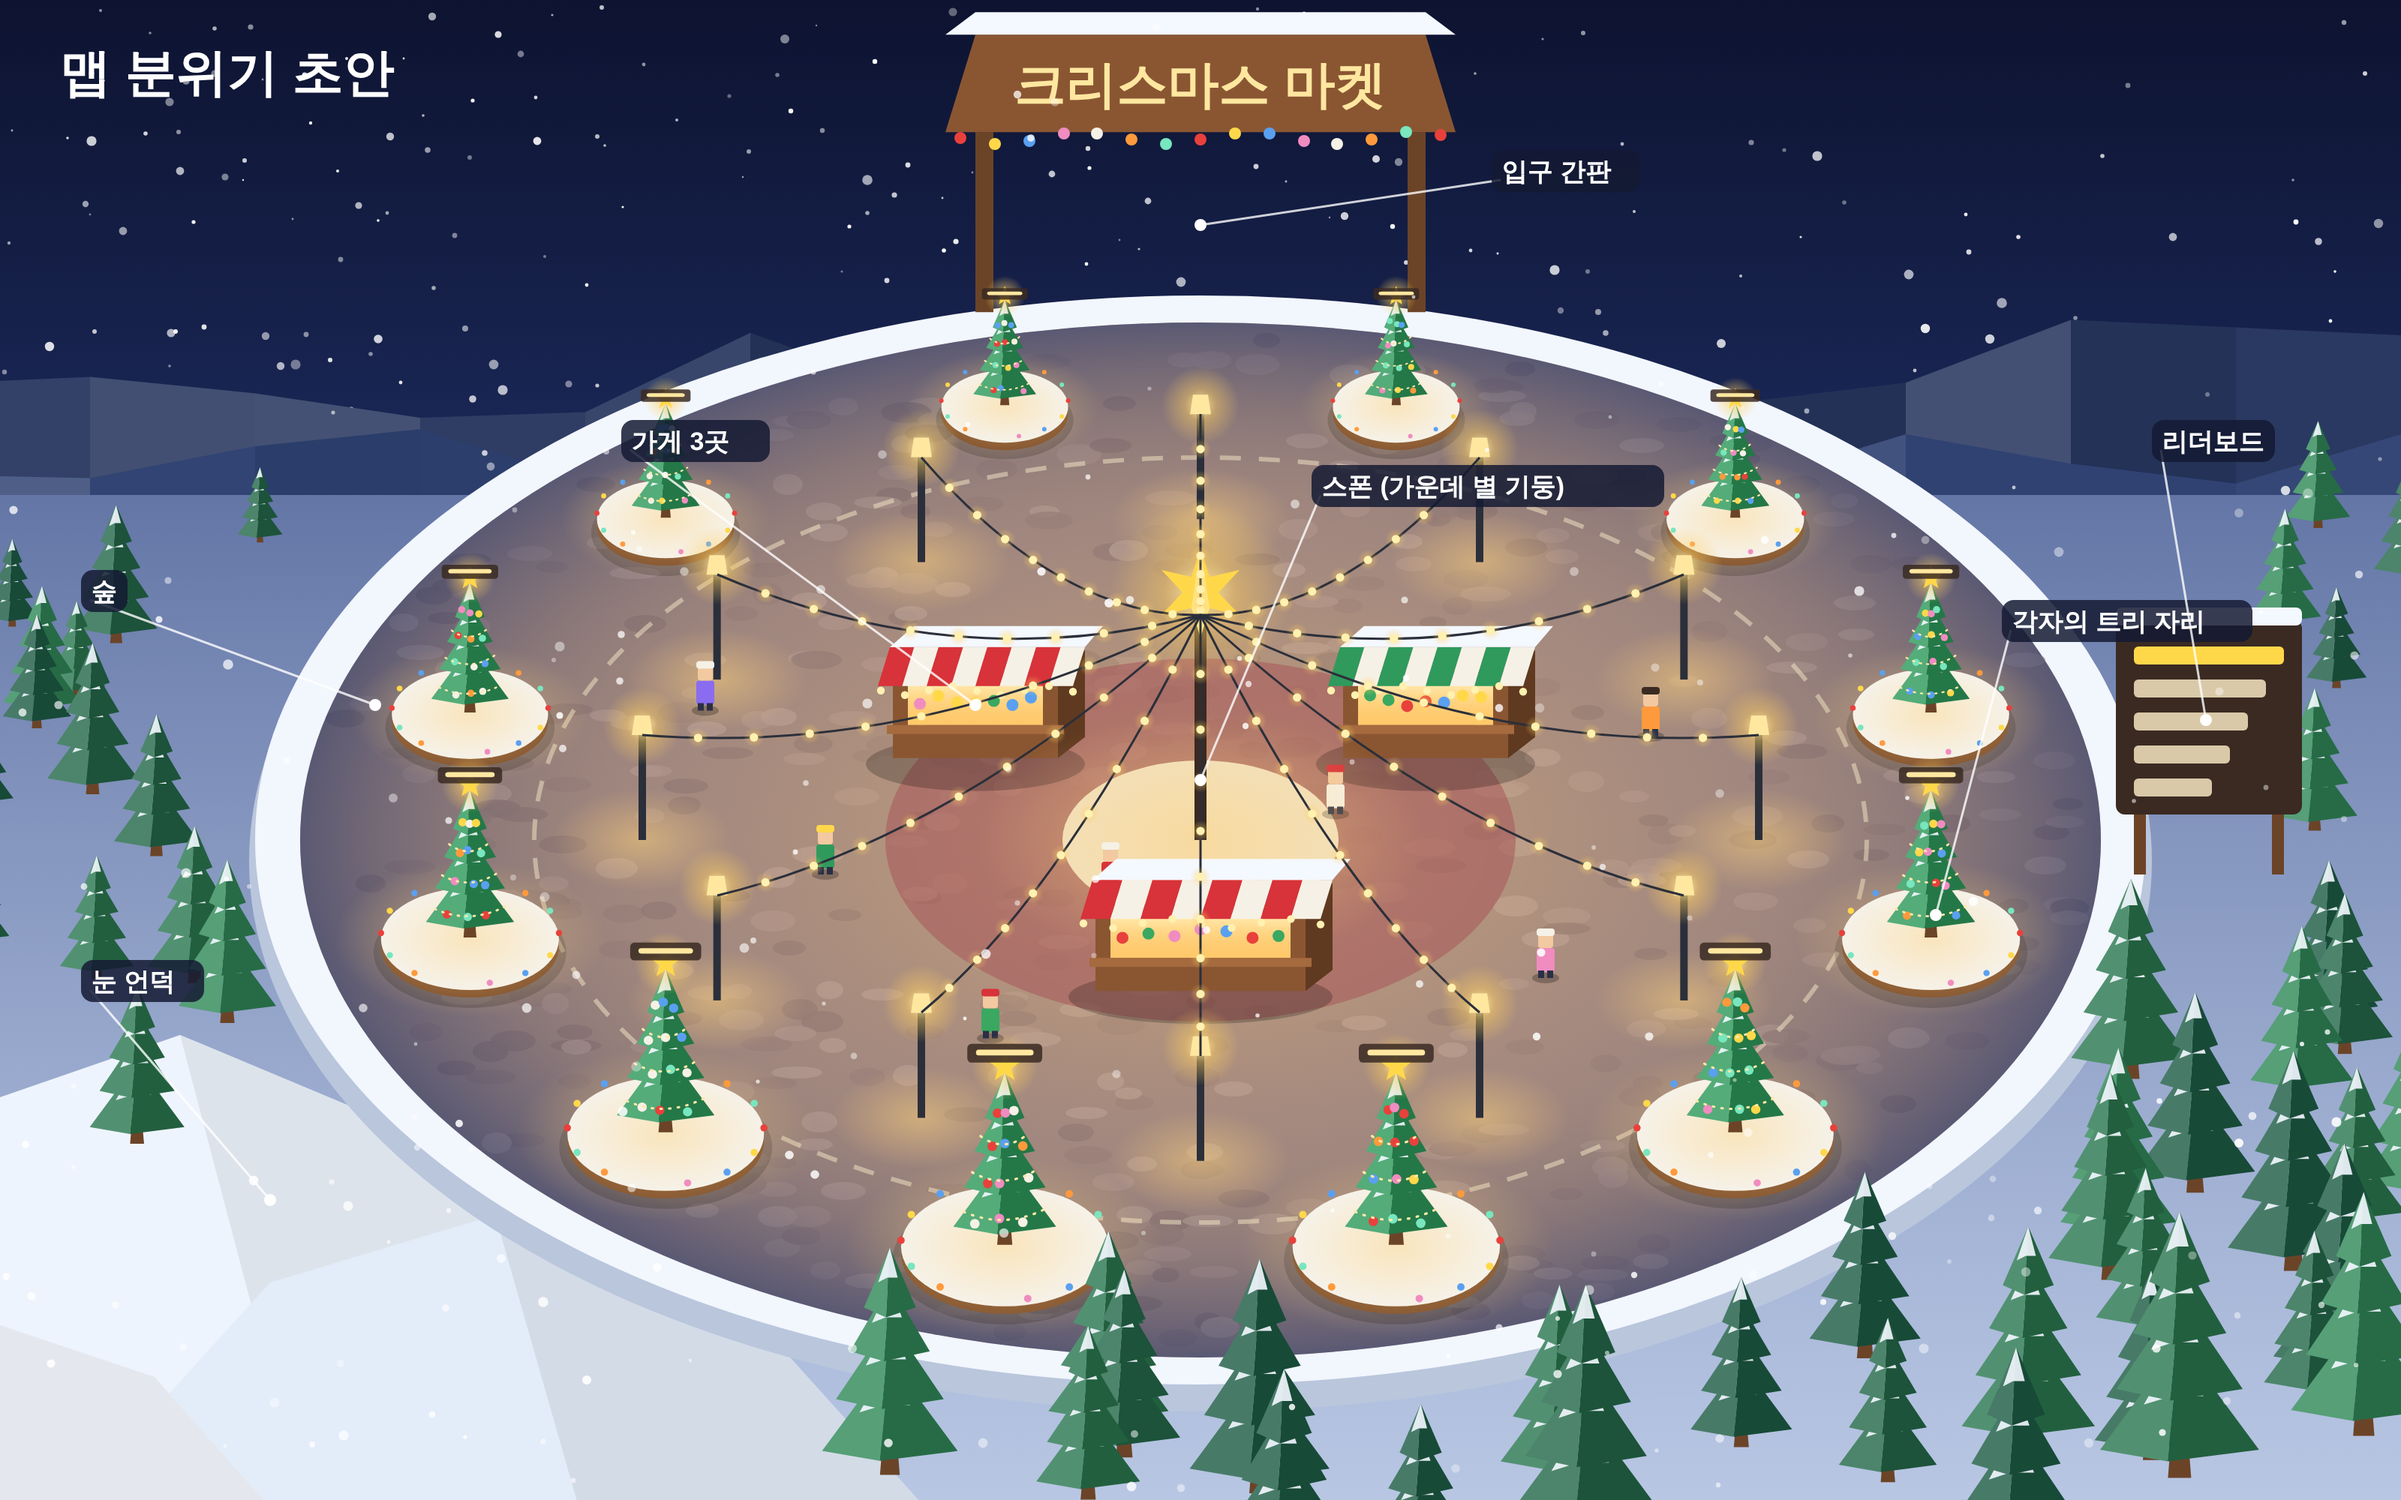
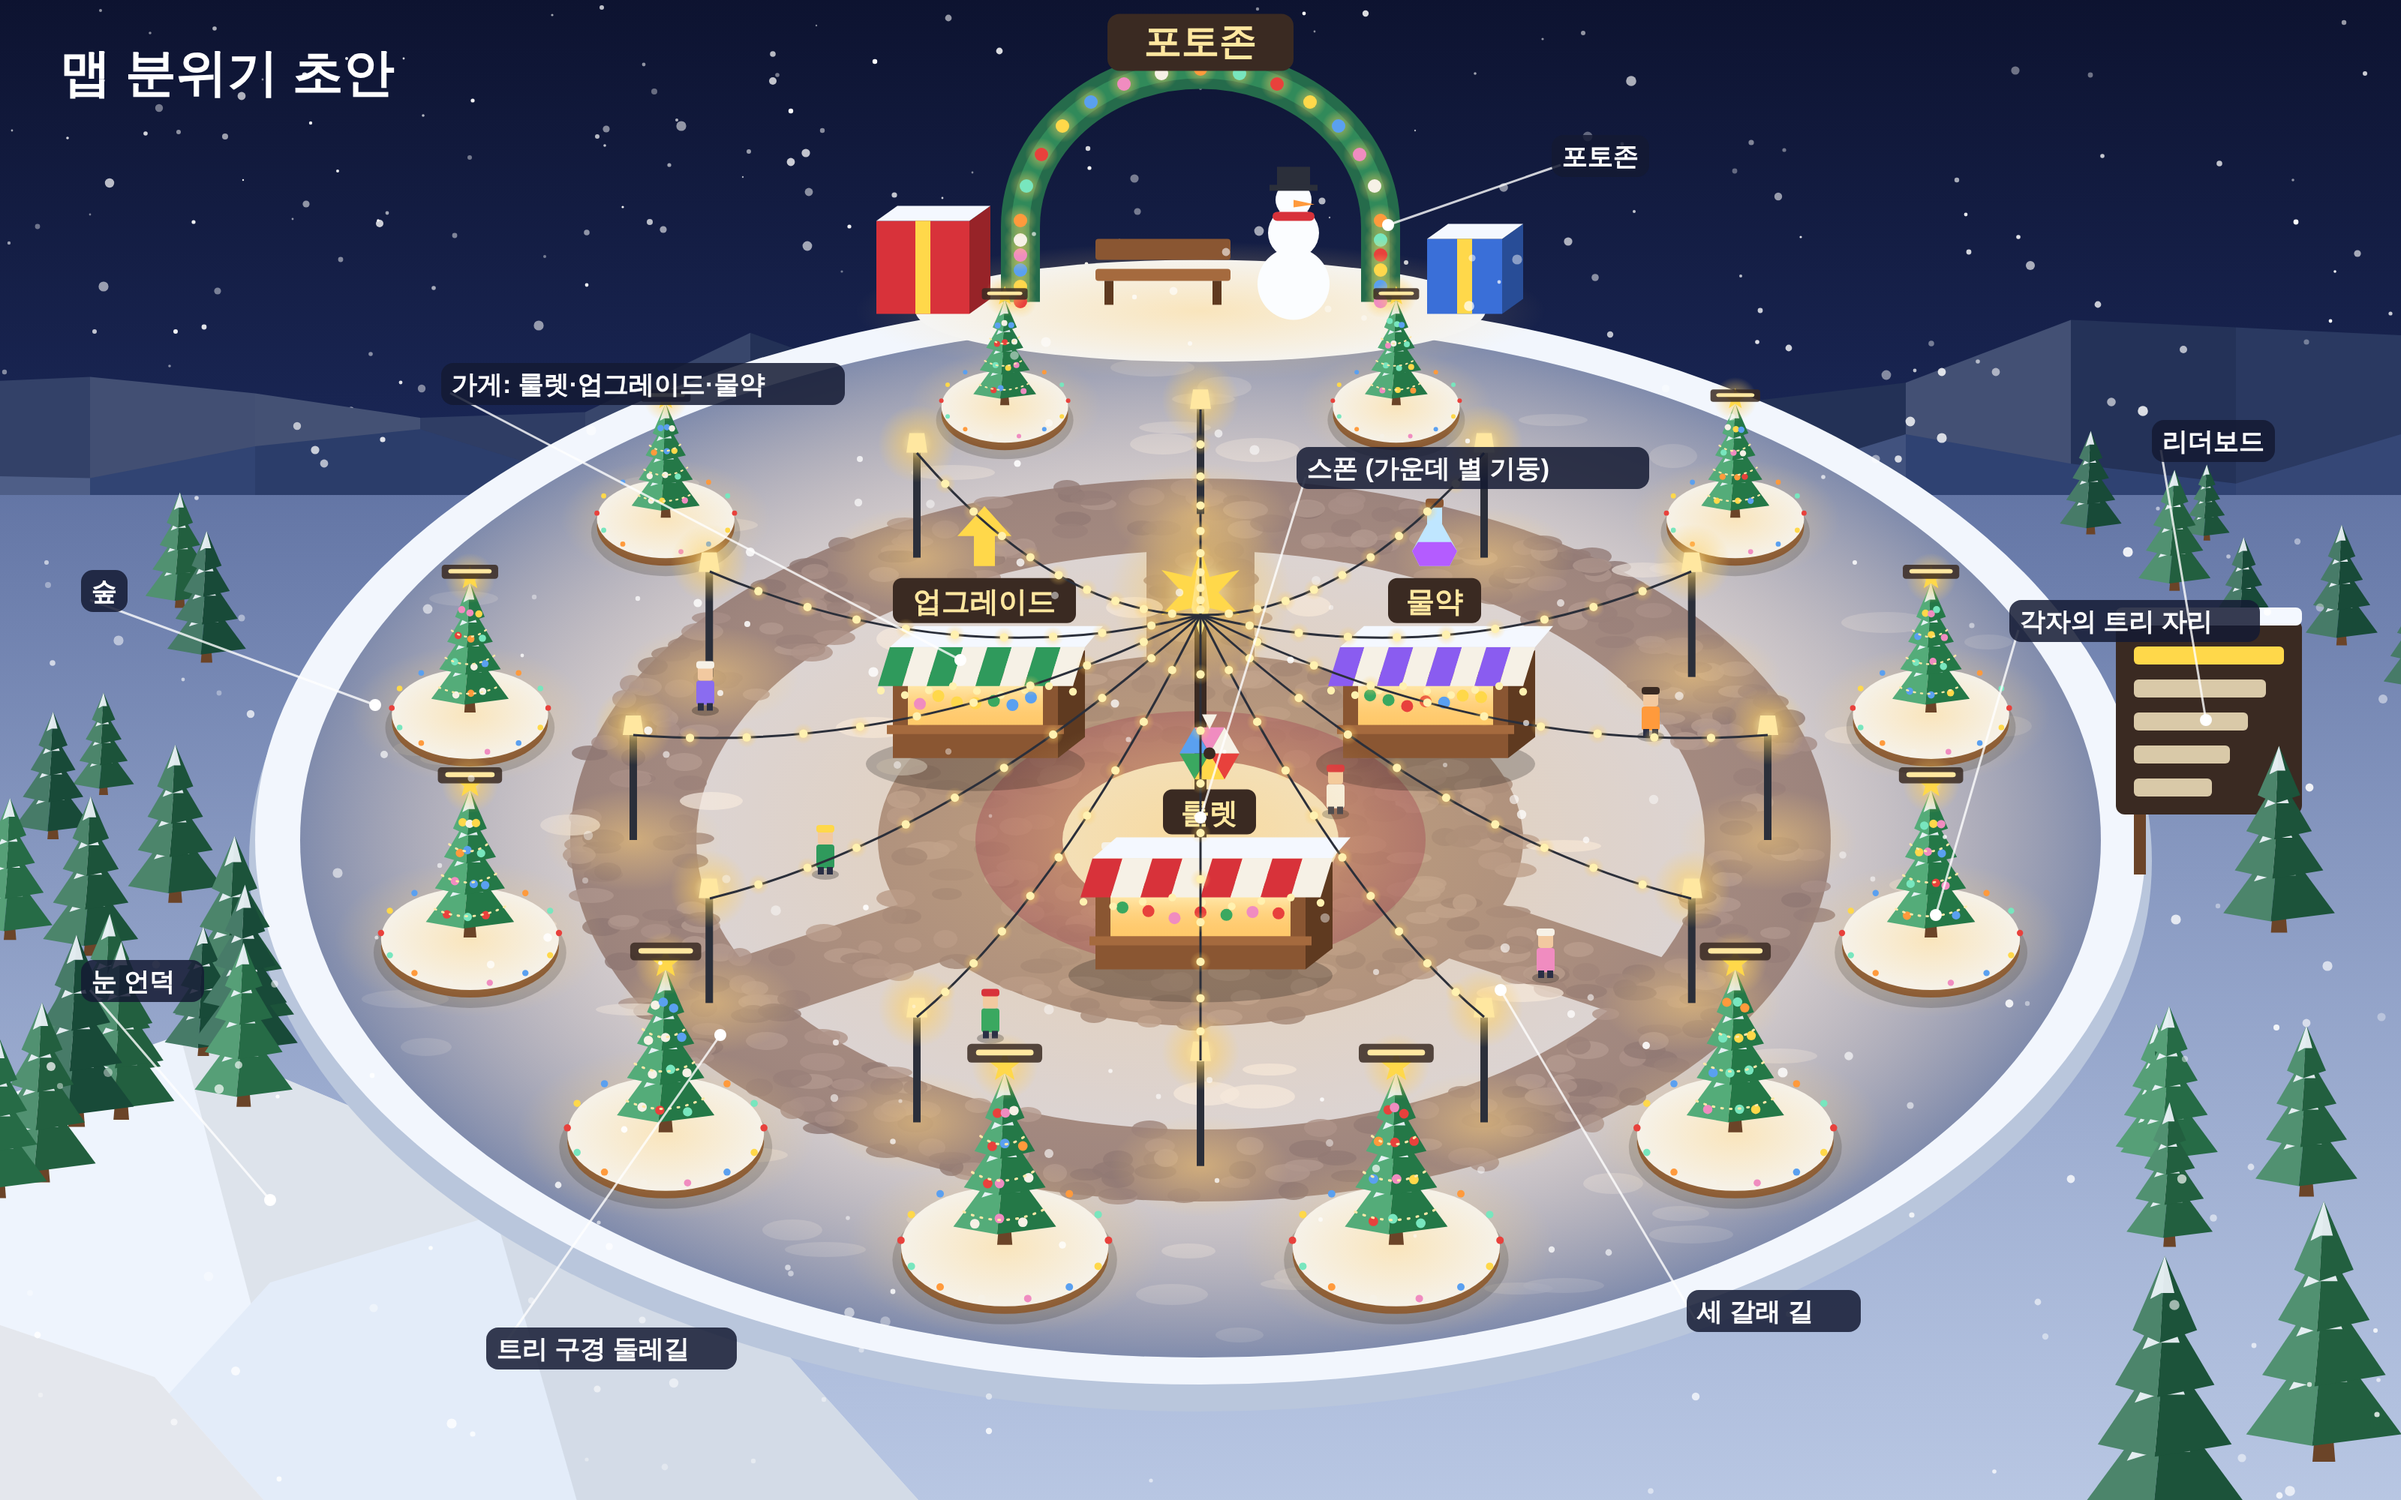
맵 초안: 포토존, 가게 간판(룰렛·업그레이드·물약), 세 갈래 길과 둘레길
Claude-Session: https://claude.ai/code/session_01CeymKQkhE2z586azoQem3s

diff --git a/tools/map_concept.py b/tools/map_concept.py
@@ -61,7 +61,7 @@ def tree(sx, sy, s, green="#2f8f57", deco=None, star=False, snow=True):
     return g
 
 
-def stall(x, z, w=110, d=46, h=58, face=0, stripe="#d8323a"):
+def stall(x, z, w=110, d=46, h=58, face=0, stripe="#d8323a", name="", icon=""):
     """마켓 부스: 나무 몸통 + 줄무늬 차양 + 따뜻한 불빛"""
     sx, sy = P(x, z)
     hw = w / 2
@@ -87,6 +87,22 @@ def stall(x, z, w=110, d=46, h=58, face=0, stripe="#d8323a"):
     for i in range(9):
         bx = sx - hw - 8 + i * (w + 18) / 8
         g += f'<circle cx="{bx:.1f}" cy="{sy-h+13+3*math.sin(i*1.6):.1f}" r="2.6" fill="#fff1b0"/>'
+    # 간판
+    if name:
+        bw = len(name) * 20 + 22
+        g += f'<rect x="{sx-bw/2+6}" y="{sy-h-62}" width="{bw}" height="30" rx="6" fill="#3a2a22"/><text x="{sx+6}" y="{sy-h-40}" text-anchor="middle" font-size="19" font-weight="800" fill="#ffe7a0">{name}</text>'
+    ix, iy = sx + 6, sy - h - 86
+    if icon == "wheel":
+        cols = ["#e8413c", "#ffd84a", "#3aa860", "#5aa0f0", "#f08cc0", "#f6f1e6"]
+        for q in range(6):
+            a0, a1 = q * math.pi / 3, (q + 1) * math.pi / 3
+            g += poly([(ix, iy), (ix + 20 * math.cos(a0), iy + 20 * math.sin(a0)), (ix + 20 * math.cos(a1), iy + 20 * math.sin(a1))], cols[q])
+        g += f'<circle cx="{ix}" cy="{iy}" r="4" fill="#3a2a22"/>' + poly([(ix - 5, iy - 26), (ix + 5, iy - 26), (ix, iy - 16)], "#f6f1e6")
+    elif icon == "up":
+        g += poly([(ix, iy - 24), (ix + 18, iy - 4), (ix + 7, iy - 4), (ix + 7, iy + 16), (ix - 7, iy + 16), (ix - 7, iy - 4), (ix - 18, iy - 4)], "#ffd84a")
+    elif icon == "potion":
+        g += poly([(ix - 5, iy - 24), (ix + 5, iy - 24), (ix + 5, iy - 12), (ix + 15, iy + 6), (ix + 10, iy + 16), (ix - 10, iy + 16), (ix - 15, iy + 6), (ix - 5, iy - 12)], "#bfe6ff")
+        g += poly([(ix + 11, iy), (ix + 15, iy + 6), (ix + 10, iy + 16), (ix - 10, iy + 16), (ix - 15, iy + 6), (ix - 11, iy)], "#b45cff") + f'<rect x="{ix-6}" y="{iy-29}" width="12" height="6" rx="2" fill="#8a5632"/>'
     return (sy, g)
 
 
@@ -126,14 +142,49 @@ for (hx, hy, hw, hh, c) in [(120, 880, 330, 190, "#eef4fd"), (330, 960, 300, 150
 # 광장 바닥
 out.append(f'<ellipse cx="{CX}" cy="{CY+14}" rx="{RX+34}" ry="{RY+22}" fill="#b9c6dc"/>')
 out.append(f'<ellipse cx="{CX}" cy="{CY}" rx="{RX+30}" ry="{RY+18}" fill="#f2f6fd"/>')  # 눈 쌓인 테두리
-out.append(f'<ellipse cx="{CX}" cy="{CY}" rx="{RX}" ry="{RY}" fill="#8d7f86"/>')  # 돌바닥
-for i in range(520):  # 돌 타일
-    a, r = random.uniform(0, 2 * math.pi), math.sqrt(random.uniform(0, 1)) * 0.98
-    x, y = CX + RX * r * math.cos(a), CY + RY * r * math.sin(a)
-    out.append(f'<ellipse cx="{x:.0f}" cy="{y:.0f}" rx="{random.uniform(9,17):.0f}" ry="{random.uniform(4,7):.0f}" fill="{random.choice(["#9b8c92","#857780","#a3959a","#7c6f79"])}" opacity=".8"/>')
+out.append(f'<ellipse cx="{CX}" cy="{CY}" rx="{RX}" ry="{RY}" fill="#d3dcee"/>')  # 눈밭
+PATH = "#8d7f86"
+SPOKES = [-90, 30, 150]  # 가운데 광장에서 나가는 세 갈래 길 (도)
+R_IN, R_OUT, R_C, HALF = 0.56 * RX, 0.70 * RX, 215, 36  # 둘레길 안·밖, 가운데 광장 반지름, 길 반폭
+
+
+def on_path(x, z):
+    rr = math.hypot(x, z)
+    if rr < R_C or R_IN < rr < R_OUT:
+        return True
+    if rr < R_IN:
+        for a in SPOKES:
+            d = abs((math.degrees(math.atan2(z, x)) - a + 180) % 360 - 180)
+            if d < 90 and rr * math.sin(math.radians(d)) < HALF:
+                return True
+    return False
+
+
+out.append(f'<ellipse cx="{CX}" cy="{CY}" rx="{R_OUT:.0f}" ry="{R_OUT*K:.0f}" fill="{PATH}"/>')
+out.append(f'<ellipse cx="{CX}" cy="{CY}" rx="{R_IN:.0f}" ry="{R_IN*K:.0f}" fill="#d3dcee"/>')
+for a in SPOKES:
+    ca, sa = math.cos(math.radians(a)), math.sin(math.radians(a))
+    quad = [P(-sa * HALF, ca * HALF), P(sa * HALF, -ca * HALF), P(ca * R_IN * 1.02 + sa * HALF, sa * R_IN * 1.02 - ca * HALF), P(ca * R_IN * 1.02 - sa * HALF, sa * R_IN * 1.02 + ca * HALF)]
+    out.append(poly(quad, PATH))
+out.append(f'<ellipse cx="{CX}" cy="{CY}" rx="{R_C}" ry="{R_C*K:.0f}" fill="{PATH}"/>')
+n = 0
+while n < 620:  # 돌 타일은 길 위에만
+    a, rr = random.uniform(0, 2 * math.pi), math.sqrt(random.uniform(0, 1)) * R_OUT
+    x, z = rr * math.cos(a), rr * math.sin(a)
+    if not on_path(x, z):
+        continue
+    n += 1
+    sx, sy = P(x, z)
+    out.append(f'<ellipse cx="{sx:.0f}" cy="{sy:.0f}" rx="{random.uniform(8,15):.0f}" ry="{random.uniform(4,6.5):.0f}" fill="{random.choice(["#9b8c92","#857780","#a3959a","#7c6f79"])}" opacity=".8"/>')
+for _ in range(90):  # 눈밭의 얕은 그늘
+    a, rr = random.uniform(0, 2 * math.pi), math.sqrt(random.uniform(0, 1)) * RX * 0.97
+    x, z = rr * math.cos(a), rr * math.sin(a)
+    if on_path(x, z):
+        continue
+    sx, sy = P(x, z)
+    out.append(f'<ellipse cx="{sx:.0f}" cy="{sy:.0f}" rx="{random.uniform(14,30):.0f}" ry="{random.uniform(4,8):.0f}" fill="#f4f8ff" opacity=".7"/>')
 out.append(f'<ellipse cx="{CX}" cy="{CY}" rx="{RX}" ry="{RY}" fill="url(#plazaLight)"/>')
-out.append(f'<ellipse cx="{CX}" cy="{CY}" rx="{RX*0.74:.0f}" ry="{RY*0.74:.0f}" fill="none" stroke="#f6e7c8" stroke-width="3" stroke-dasharray="14 12" opacity=".5"/>')
-out.append(f'<ellipse cx="{CX}" cy="{CY}" rx="210" ry="{210*K:.0f}" fill="#a8565a" opacity=".55"/>')  # 가운데 붉은 바닥
+out.append(f'<ellipse cx="{CX}" cy="{CY}" rx="150" ry="{150*K:.0f}" fill="#a8565a" opacity=".5"/>')  # 가운데 붉은 바닥
 out.append(f'<ellipse cx="{CX}" cy="{CY}" rx="92" ry="{92*K:.0f}" fill="#f1e2c4"/>')  # 스폰 단
 
 # ---------------------------------------------------------------- 숲 (광장 바깥)
@@ -146,7 +197,9 @@ for i in range(150):
         continue
     if sx < 520 and sy > 800:  # 언덕 자리는 비운다
         continue
-    if abs(sx - CX) < 150 and sy < CY:  # 입구 길
+    if 430 < sx < 1400 and sy > 780:  # 앞쪽 트리 자리를 가리지 않게
+        continue
+    if abs(sx - CX) < 260 and sy < CY:  # 포토존 자리
         continue
     s = random.uniform(0.75, 1.25) * (0.55 + (sy - 330) / 900)
     items.append((sy, tree(sx, sy, s, green=random.choice(["#2c7a52", "#256b4b", "#318a5a", "#1f5f48"]))))
@@ -173,9 +226,9 @@ for i in range(N):
     items.append((sy, g))
 
 # ---------------------------------------------------------------- 가운데: 스폰 + 가게 3곳
-items.append(stall(-150, -95, stripe="#d8323a"))
-items.append(stall(150, -95, stripe="#2f9a5c"))
-items.append(stall(0, 175, w=140, stripe="#d8323a"))
+items.append(stall(-150, -95, stripe="#2f9a5c", name="업그레이드", icon="up"))
+items.append(stall(150, -95, stripe="#8a5cf0", name="물약", icon="potion"))
+items.append(stall(0, 150, w=140, stripe="#d8323a", name="룰렛", icon="wheel"))
 sx, sy = P(0, 0)
 g = f'<ellipse cx="{sx}" cy="{sy}" rx="150" ry="{150*K:.0f}" fill="url(#glowGround)"/>'
 g += f'<rect x="{sx-4}" y="{sy-150}" width="8" height="150" fill="#3a2a22"/>'
@@ -191,23 +244,45 @@ items.append((sy, g))
 lights = ""
 for i in range(N):
     a = math.radians(-90 + 360 / N * i)
-    ex, ey = P(RX * 0.62 * math.cos(a), RX * 0.62 * math.sin(a), 70)
+    ex, ey = P(RX * 0.63 * math.cos(a), RX * 0.63 * math.sin(a), 70)
     mx, my = (sx + ex) / 2, (sy - 150 + ey) / 2 + 55
     lights += f'<path d="M{sx},{sy-150} Q{mx:.0f},{my:.0f} {ex:.0f},{ey:.0f}" stroke="#2b2f3a" stroke-width="1.5" fill="none"/>'
     for t in [j / 10 for j in range(1, 10)]:
         bx = (1 - t) ** 2 * sx + 2 * (1 - t) * t * mx + t * t * ex
         by = (1 - t) ** 2 * (sy - 150) + 2 * (1 - t) * t * my + t * t * ey
         lights += f'<circle cx="{bx:.1f}" cy="{by:.1f}" r="7" fill="url(#glowY)" opacity=".7"/><circle cx="{bx:.1f}" cy="{by:.1f}" r="2.8" fill="#fff1b0"/>'
-    items.append(lamp(RX * 0.62 * math.cos(a), RX * 0.62 * math.sin(a)))
+    items.append(lamp(RX * 0.63 * math.cos(a), RX * 0.63 * math.sin(a)))
 
-# 위쪽 입구 간판
-sx, sy = P(0, -RX * 1.02)
-g = f'<rect x="{sx-150}" y="{sy-120}" width="12" height="120" fill="#6b4428"/><rect x="{sx+138}" y="{sy-120}" width="12" height="120" fill="#6b4428"/>'
-g += poly([(sx - 170, sy - 120), (sx + 170, sy - 120), (sx + 150, sy - 185), (sx - 150, sy - 185)], "#8a5632")
-g += poly([(sx - 170, sy - 185), (sx + 170, sy - 185), (sx + 150, sy - 200), (sx - 150, sy - 200)], "#f4f8ff")
-g += f'<text x="{sx}" y="{sy-140}" text-anchor="middle" font-size="34" font-weight="800" fill="#ffe7a0">크리스마스 마켓</text>'
-for i in range(15):
-    g += f'<circle cx="{sx-160+i*320/14:.0f}" cy="{sy-116+4*math.sin(i*1.3):.0f}" r="4" fill="{DECO[i%len(DECO)]}"/>'
+# 위쪽 포토존: 전구 아치 + 큰 선물상자 + 눈사람 + 벤치
+sx, sy = P(0, -RX * 1.04)
+g = f'<ellipse cx="{sx}" cy="{sy+6}" rx="190" ry="34" fill="#f4f8ff"/><ellipse cx="{sx}" cy="{sy+6}" rx="230" ry="46" fill="url(#glowGround)"/>'
+g += f'<path d="M{sx-120},{sy} L{sx-120},{sy-50} A120,105 0 0 1 {sx+120},{sy-50} L{sx+120},{sy}" stroke="#256b4b" stroke-width="26" fill="none"/>'
+g += f'<path d="M{sx-120},{sy} L{sx-120},{sy-50} A120,105 0 0 1 {sx+120},{sy-50} L{sx+120},{sy}" stroke="#318a5a" stroke-width="12" fill="none"/>'
+for i in range(25):
+    t = i / 24
+    if t < 0.2:
+        bx, by = sx - 120, sy - t / 0.2 * 50
+    elif t > 0.8:
+        bx, by = sx + 120, sy - (1 - t) / 0.2 * 50
+    else:
+        a = math.pi * (1 - (t - 0.2) / 0.6)
+        bx, by = sx + 120 * math.cos(a), sy - 50 - 105 * math.sin(a)
+    g += f'<circle cx="{bx:.0f}" cy="{by:.0f}" r="11" fill="url(#glowY)" opacity=".8"/><circle cx="{bx:.0f}" cy="{by:.0f}" r="4.5" fill="{DECO[i%len(DECO)]}"/>'
+g += f'<rect x="{sx-62}" y="{sy-192}" width="124" height="38" rx="8" fill="#3a2a22"/><text x="{sx}" y="{sy-165}" text-anchor="middle" font-size="25" font-weight="800" fill="#ffe7a0">포토존</text>'
+# 큰 선물상자
+for (gx, gw, gh, c) in [(-185, 62, 62, "#d8323a"), (176, 50, 50, "#3a6fd8")]:
+    x0 = sx + gx
+    g += poly([(x0 - gw / 2, sy + 8), (x0 + gw / 2, sy + 8), (x0 + gw / 2, sy + 8 - gh), (x0 - gw / 2, sy + 8 - gh)], c)
+    g += poly([(x0 + gw / 2, sy + 8), (x0 + gw / 2 + 14, sy - 2), (x0 + gw / 2 + 14, sy - 2 - gh), (x0 + gw / 2, sy + 8 - gh)], shade(c, 0.7))
+    g += poly([(x0 - gw / 2, sy + 8 - gh), (x0 + gw / 2, sy + 8 - gh), (x0 + gw / 2 + 14, sy - 2 - gh), (x0 - gw / 2 + 14, sy - 2 - gh)], "#f4f8ff")
+    g += f'<rect x="{x0-5}" y="{sy+8-gh}" width="10" height="{gh}" fill="#ffd84a"/>'
+# 눈사람
+mx = sx + 62
+g += f'<circle cx="{mx}" cy="{sy-12}" r="24" fill="#fbfdff"/><circle cx="{mx}" cy="{sy-46}" r="17" fill="#fbfdff"/><circle cx="{mx}" cy="{sy-68}" r="12" fill="#fbfdff"/>'
+g += f'<rect x="{mx-11}" y="{sy-90}" width="22" height="14" fill="#2b2f3a"/><rect x="{mx-16}" y="{sy-78}" width="32" height="4" fill="#2b2f3a"/><rect x="{mx-14}" y="{sy-60}" width="28" height="6" rx="3" fill="#d8323a"/>'
+g += poly([(mx, sy - 68), (mx + 14, sy - 65), (mx, sy - 63)], "#ff9a3c")
+# 벤치
+g += f'<rect x="{sx-70}" y="{sy-22}" width="90" height="8" rx="2" fill="#a56a3e"/><rect x="{sx-70}" y="{sy-42}" width="90" height="14" rx="2" fill="#8a5632"/><rect x="{sx-64}" y="{sy-14}" width="6" height="16" fill="#5f3a20"/><rect x="{sx+8}" y="{sy-14}" width="6" height="16" fill="#5f3a20"/>'
 items.append((sy, g))
 
 # 오른쪽 리더보드
@@ -233,8 +308,9 @@ def label(x, y, t, tx, ty):
             f'<rect x="{tx-6}" y="{ty-20}" width="{len(t)*17+14}" height="28" rx="8" fill="#141a33" opacity=".85"/><text x="{tx+1}" y="{ty}" font-size="17" font-weight="700" fill="#fff">{t}</text>')
 
 
-labels = (label(800, 520, "스폰 (가운데 별 기둥)", 880, 330) + label(650, 470, "가게 3곳", 420, 300) + label(1290, 610, "각자의 트리 자리", 1340, 420)
-          + label(1470, 480, "리더보드", 1440, 300) + label(180, 800, "눈 언덕", 60, 660) + label(800, 150, "입구 간판", 1000, 120) + label(250, 470, "숲", 60, 400))
+labels = (label(800, 545, "스폰 (가운데 별 기둥)", 870, 318) + label(640, 440, "가게: 룰렛·업그레이드·물약", 300, 262) + label(1290, 610, "각자의 트리 자리", 1345, 420)
+          + label(1470, 480, "리더보드", 1440, 300) + label(180, 800, "눈 언덕", 60, 660) + label(925, 150, "포토존", 1040, 110) + label(250, 470, "숲", 60, 400)
+          + label(1000, 660, "세 갈래 길", 1130, 880) + label(480, 690, "트리 구경 둘레길", 330, 905))
 
 svg = f'''<svg xmlns="http://www.w3.org/2000/svg" viewBox="0 0 {W} {H}" width="{W}" height="{H}" font-family="'Noto Sans KR','Apple SD Gothic Neo',sans-serif">
 <defs>
